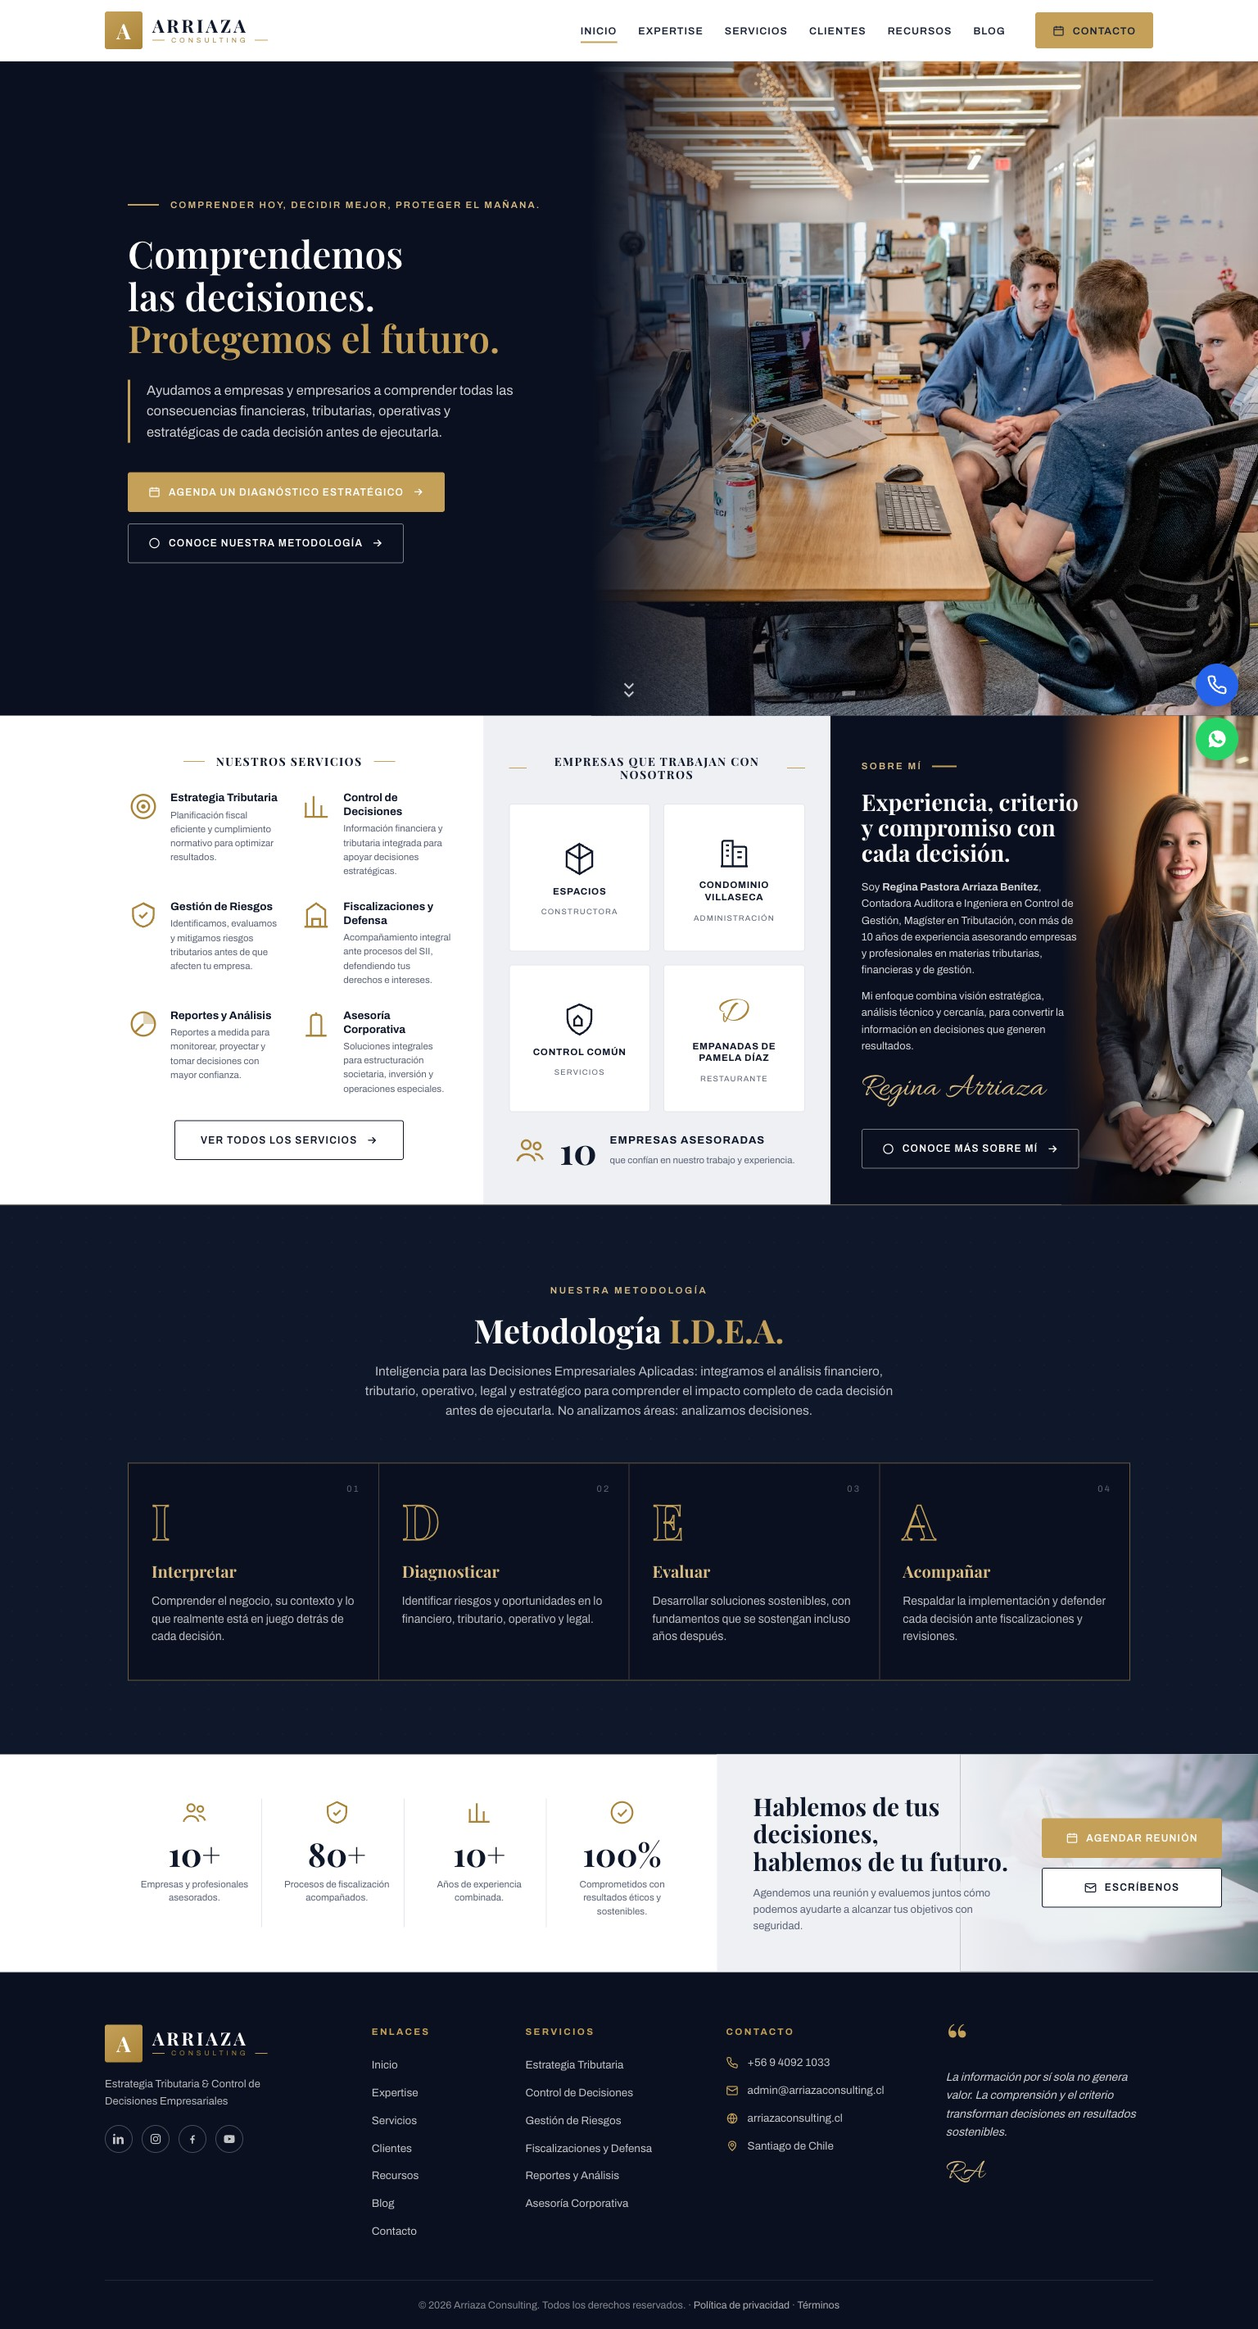
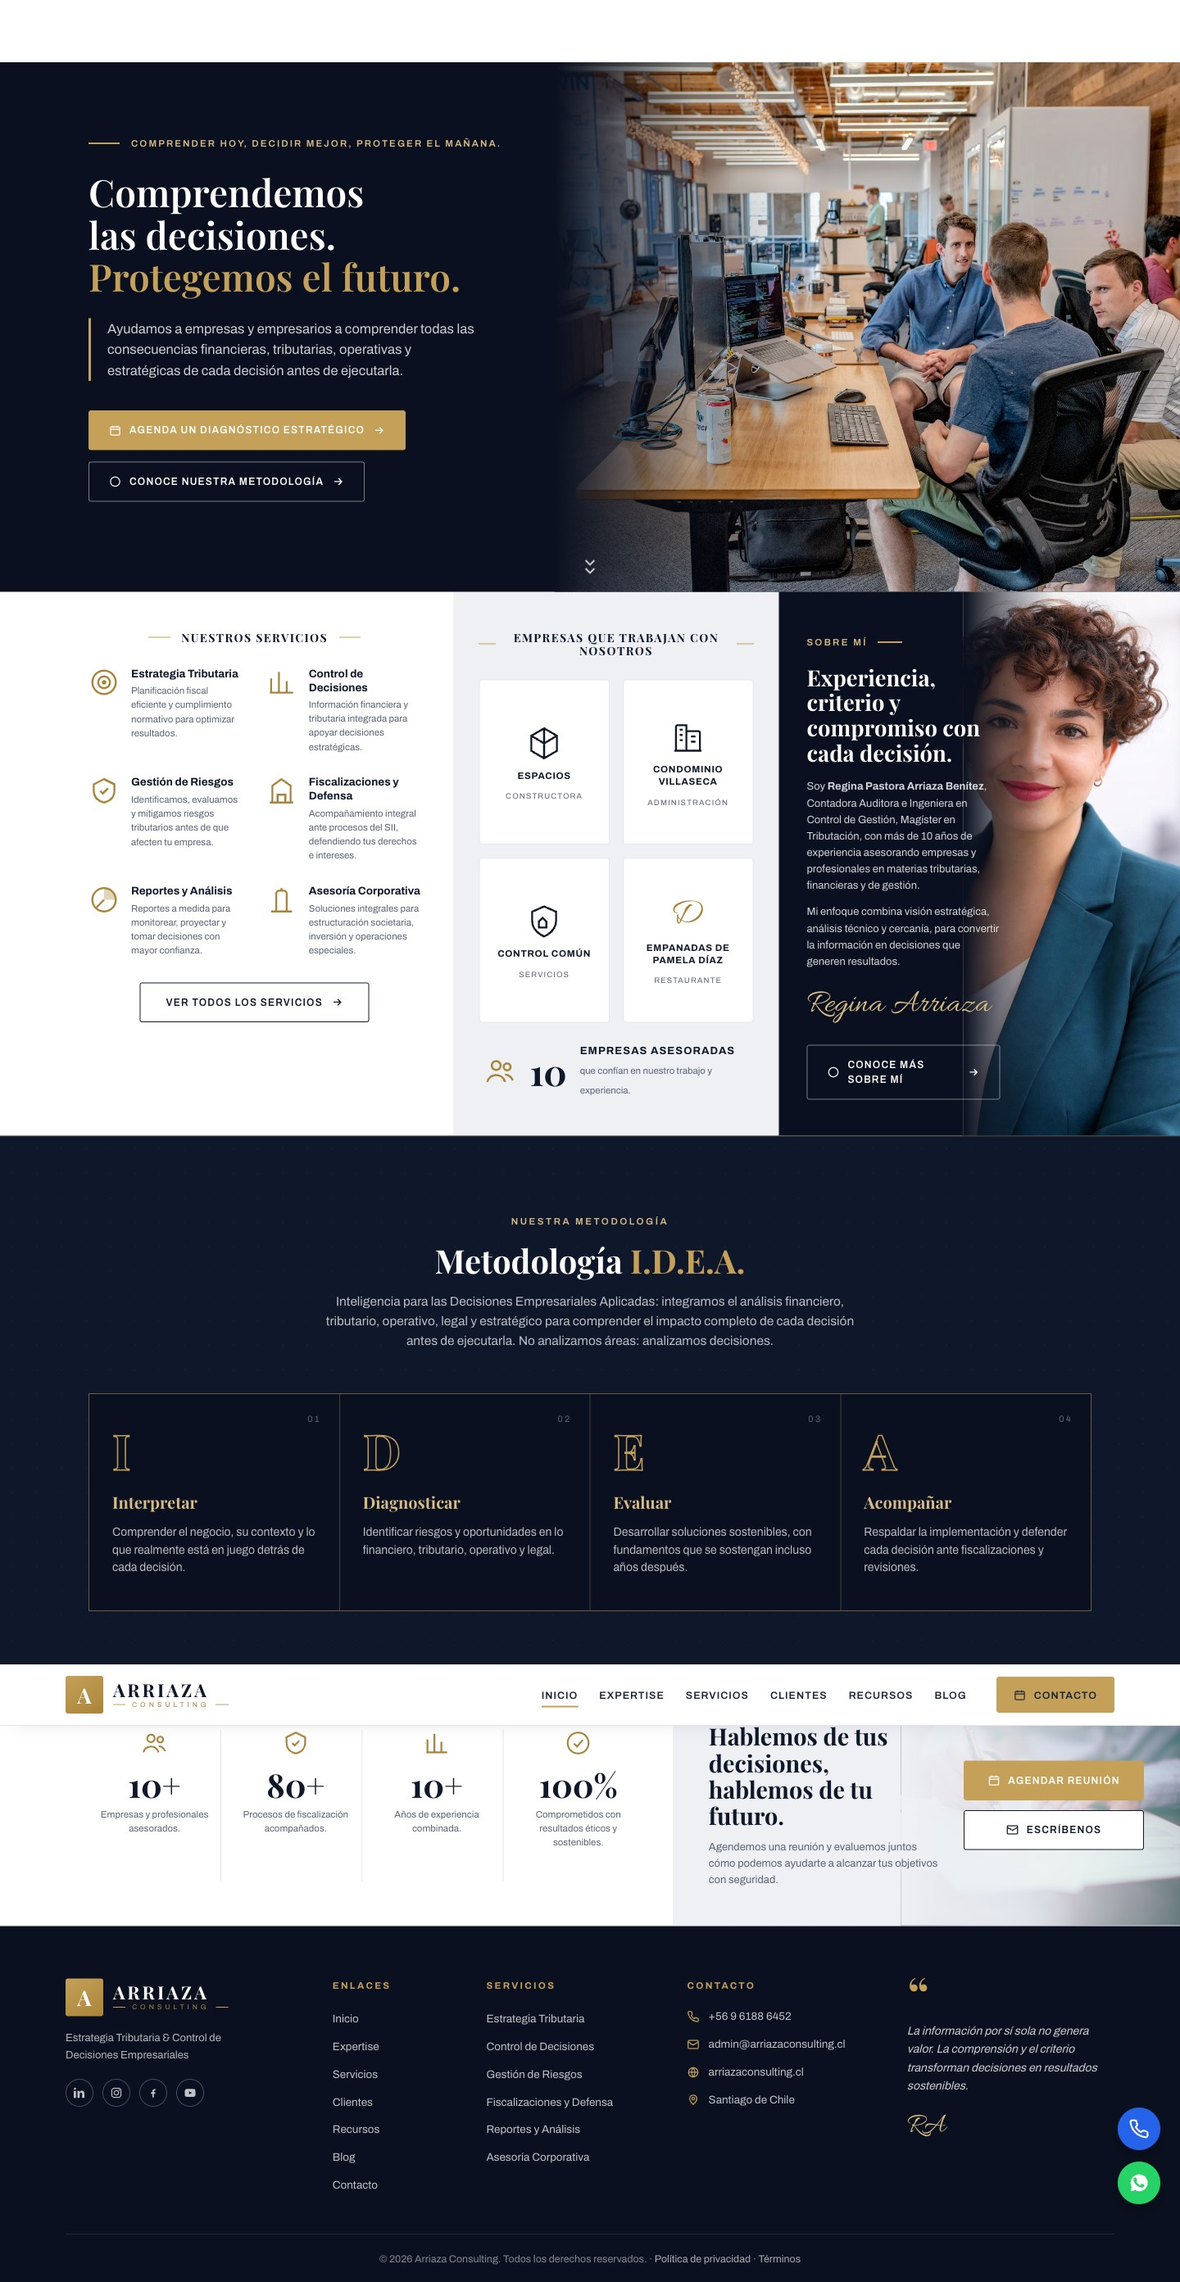
Datos reales de Regina: teléfono +56 9 6188 6452 en todo el sitio y su foto oficial en Sobre mí

diff --git a/index.html b/index.html
@@ -211,7 +211,7 @@
 
         /* — Sobre mí — */
         .t-about { background: var(--navy-950); color: #fff; position: relative; overflow: hidden; display: flex; }
-        .t-about .about-text { position: relative; z-index: 2; padding: 48px 20px 44px 38px; width: 62%; }
+        .t-about .about-text { position: relative; z-index: 2; padding: 48px 14px 44px 34px; width: 58%; }
         .about-label {
             font-size: 11.5px; font-weight: 600; letter-spacing: .2em; text-transform: uppercase;
             color: var(--gold-soft); display: inline-flex; align-items: center; gap: 12px;
@@ -220,11 +220,11 @@
         .t-about h2 { font-size: clamp(22px, 1.9vw, 28px); color: #fff; margin: 16px 0 16px; }
         .t-about p { font-size: 13px; color: rgba(255, 255, 255, .82); margin-bottom: 12px; }
         .t-about .signature { font-family: 'Allura', cursive; font-size: 40px; color: var(--gold-soft); margin: 10px 0 18px; }
-        .t-about .photo { position: absolute; right: 0; top: 0; bottom: 0; width: 46%; }
-        .t-about .photo img { width: 100%; height: 100%; object-fit: cover; object-position: center top; }
+        .t-about .photo { position: absolute; right: 0; top: 0; bottom: 0; width: 54%; }
+        .t-about .photo img { width: 100%; height: 100%; object-fit: cover; object-position: 62% 18%; }
         .t-about .photo::before {
             content: ""; position: absolute; inset: 0; z-index: 1;
-            background: linear-gradient(90deg, var(--navy-950) 0%, rgba(10, 16, 31, .35) 30%, transparent 60%);
+            background: linear-gradient(90deg, var(--navy-950) 0%, rgba(10, 16, 31, .55) 16%, transparent 42%);
         }
 
         /* ============ Metodología I.D.E.A. ============ */
@@ -383,7 +383,7 @@
                     ejecutarla.</p>
                 <div class="hero-actions reveal reveal-d3">
                     <a class="btn btn-gold"
-                        href="https://wa.me/56940921033?text=Hola,%20quisiera%20agendar%20un%20diagn%C3%B3stico%20estrat%C3%A9gico%20para%20mi%20empresa.">
+                        href="https://wa.me/56961886452?text=Hola,%20quisiera%20agendar%20un%20diagn%C3%B3stico%20estrat%C3%A9gico%20para%20mi%20empresa.">
                         <svg viewBox="0 0 24 24" fill="none" stroke="currentColor" stroke-width="2"><rect x="3" y="5" width="18" height="16" rx="2"/><path d="M8 3v4M16 3v4M3 10h18"/></svg>
                         Agenda un diagnóstico estratégico
                         <svg viewBox="0 0 24 24" fill="none" stroke="currentColor" stroke-width="2"><path d="M5 12h14M13 6l6 6-6 6"/></svg>
@@ -492,9 +492,8 @@
                 </a>
             </div>
             <div class="photo">
-                <!-- FOTO PROVISORIA (Unsplash) — reemplazar por la foto real de Regina -->
-                <img src="https://images.unsplash.com/photo-1573496359142-b8d87734a5a2?auto=format&fit=crop&w=800&q=80"
-                    alt="Regina Pastora Arriaza Benítez, fundadora de Arriaza Consulting" width="480" height="640">
+                <img src="img/regina-arriaza.jpg"
+                    alt="Regina Pastora Arriaza Benítez, fundadora de Arriaza Consulting" width="853" height="1280">
             </div>
         </section>
     </div>
@@ -576,7 +575,7 @@
                     </div>
                     <div class="actions reveal reveal-d1">
                         <a class="btn btn-gold"
-                            href="https://wa.me/56940921033?text=Hola,%20quisiera%20agendar%20una%20reuni%C3%B3n%20con%20Arriaza%20Consulting.">
+                            href="https://wa.me/56961886452?text=Hola,%20quisiera%20agendar%20una%20reuni%C3%B3n%20con%20Arriaza%20Consulting.">
                             <svg viewBox="0 0 24 24" fill="none" stroke="currentColor" stroke-width="2"><rect x="3" y="5" width="18" height="16" rx="2"/><path d="M8 3v4M16 3v4M3 10h18"/></svg>
                             Agendar reunión</a>
                         <a class="btn btn-ghost-dark" href="mailto:admin@arriazaconsulting.cl">
@@ -634,7 +633,7 @@
                 <h4>Contacto</h4>
                 <ul class="foot-contact" style="display:grid;gap:13px;">
                     <li><svg viewBox="0 0 24 24" fill="none" stroke="currentColor" stroke-width="2"><path d="M22 16.9v3a2 2 0 01-2.2 2A19.8 19.8 0 012 4.2 2 2 0 014 2h3.1a2 2 0 012 1.7c.13.96.36 1.9.7 2.8a2 2 0 01-.45 2.1L8.1 9.9a16 16 0 006 6l1.3-1.25a2 2 0 012.1-.45c.9.34 1.84.57 2.8.7a2 2 0 011.7 2z"/></svg>
-                        <a href="tel:+56940921033">+56 9 4092 1033</a></li>
+                        <a href="tel:+56961886452">+56 9 6188 6452</a></li>
                     <li><svg viewBox="0 0 24 24" fill="none" stroke="currentColor" stroke-width="2"><rect x="2" y="4" width="20" height="16" rx="2"/><path d="M2 7l10 6L22 7"/></svg>
                         <a href="mailto:admin@arriazaconsulting.cl">admin@arriazaconsulting.cl</a></li>
                     <li><svg viewBox="0 0 24 24" fill="none" stroke="currentColor" stroke-width="2"><circle cx="12" cy="12" r="9"/><path d="M3 12h18M12 3a14 14 0 010 18M12 3a14 14 0 000 18"/></svg>
@@ -658,10 +657,10 @@
 
     <!-- ============ Flotantes ============ -->
     <div class="floaters">
-        <a class="f-phone" href="tel:+56940921033" aria-label="Llamar">
+        <a class="f-phone" href="tel:+56961886452" aria-label="Llamar">
             <svg viewBox="0 0 24 24" fill="none" stroke="currentColor" stroke-width="2"><path d="M22 16.9v3a2 2 0 01-2.2 2A19.8 19.8 0 012 4.2 2 2 0 014 2h3.1a2 2 0 012 1.7c.13.96.36 1.9.7 2.8a2 2 0 01-.45 2.1L8.1 9.9a16 16 0 006 6l1.3-1.25a2 2 0 012.1-.45c.9.34 1.84.57 2.8.7a2 2 0 011.7 2z"/></svg>
         </a>
-        <a class="f-wsp" href="https://wa.me/56940921033?text=Hola,%20necesito%20asesor%C3%ADa%20para%20mi%20empresa." aria-label="WhatsApp">
+        <a class="f-wsp" href="https://wa.me/56961886452?text=Hola,%20necesito%20asesor%C3%ADa%20para%20mi%20empresa." aria-label="WhatsApp">
             <svg viewBox="0 0 24 24" fill="currentColor"><path d="M12.04 2a9.9 9.9 0 00-8.5 15L2 22l5.15-1.5A9.94 9.94 0 1012.04 2zm5.8 14.1c-.24.68-1.4 1.3-1.94 1.35-.5.05-1.13.24-3.8-.8-3.2-1.26-5.24-4.53-5.4-4.74-.16-.21-1.3-1.73-1.3-3.3 0-1.57.83-2.34 1.12-2.66.3-.32.64-.4.85-.4h.61c.2 0 .46-.07.72.55.27.64.9 2.2.98 2.36.08.16.13.35.03.56-.1.21-.16.34-.32.53-.16.19-.34.42-.48.56-.16.16-.33.34-.14.66.19.32.83 1.37 1.78 2.22 1.22 1.09 2.25 1.43 2.57 1.59.32.16.5.13.69-.08.19-.21.79-.92 1-1.24.21-.32.42-.26.7-.16.29.11 1.85.87 2.17 1.03.32.16.53.24.61.37.08.14.08.78-.16 1.44z"/></svg>
         </a>
     </div>

diff --git a/blog/regimen-pro-pyme-transparente-vs-general.html b/blog/regimen-pro-pyme-transparente-vs-general.html
@@ -59,13 +59,13 @@
                 <a href="/" class="hover:text-navy transition">Inicio</a>
                 <a href="/blog" class="hover:text-navy transition">Blog</a>
                 <a href="/agencia-digital" class="hover:text-navy transition">Agencia Digital</a>
-                <a href="https://wa.me/56940921033" target="_blank" rel="noopener" class="bg-navy border border-navy text-white px-6 py-2.5 rounded-sm hover:bg-transparent hover:text-navy transition-all">Contacto</a>
+                <a href="https://wa.me/56961886452" target="_blank" rel="noopener" class="bg-navy border border-navy text-white px-6 py-2.5 rounded-sm hover:bg-transparent hover:text-navy transition-all">Contacto</a>
             </div>
         </div>
     </nav>
     <div class="float-contact">
-        <a href="tel:940921033" class="btn-float bg-blue-600" title="Llamar"><i class="fas fa-phone"></i></a>
-        <a href="https://wa.me/56940921033?text=Hola%2C%20quisiera%20agendar%20una%20reuni%C3%B3n%20de%20diagn%C3%B3stico%20tributario" target="_blank" class="btn-float bg-green-500" title="WhatsApp"><i class="fab fa-whatsapp"></i></a>
+        <a href="tel:961886452" class="btn-float bg-blue-600" title="Llamar"><i class="fas fa-phone"></i></a>
+        <a href="https://wa.me/56961886452?text=Hola%2C%20quisiera%20agendar%20una%20reuni%C3%B3n%20de%20diagn%C3%B3stico%20tributario" target="_blank" class="btn-float bg-green-500" title="WhatsApp"><i class="fab fa-whatsapp"></i></a>
     </div>
 
 <header class="bg-navy text-white py-20 px-6">
@@ -93,7 +93,7 @@
             <span class="gold-accent text-[10px] font-bold tracking-[0.4em] uppercase">Diagnóstico</span>
             <h3 class="text-2xl font-serif mt-3 text-white">¿Tu PYME está en el régimen correcto?</h3>
             <p class="text-slate-300 mt-3 mb-6">Hacemos diagnóstico de régimen y simulación de cambio. Sin compromiso, te enviamos las cifras antes de cualquier movimiento.</p>
-            <a href="https://wa.me/56940921033?text=Hola%20Arriaza%2C%20le%C3%AD%20su%20art%C3%ADculo%20y%20quiero%20agendar%20diagn%C3%B3stico" target="_blank" rel="noopener" class="inline-block bg-gold text-white px-8 py-4 font-bold text-sm tracking-wider uppercase hover:bg-yellow-600 transition">Agendar Reunión <i class="fas fa-arrow-right ml-2"></i></a>
+            <a href="https://wa.me/56961886452?text=Hola%20Arriaza%2C%20le%C3%AD%20su%20art%C3%ADculo%20y%20quiero%20agendar%20diagn%C3%B3stico" target="_blank" rel="noopener" class="inline-block bg-gold text-white px-8 py-4 font-bold text-sm tracking-wider uppercase hover:bg-yellow-600 transition">Agendar Reunión <i class="fas fa-arrow-right ml-2"></i></a>
         </div>
     </div>
 

diff --git a/blog/errores-tributarios-pymes-restauranteras.html b/blog/errores-tributarios-pymes-restauranteras.html
@@ -59,13 +59,13 @@
                 <a href="/" class="hover:text-navy transition">Inicio</a>
                 <a href="/blog" class="hover:text-navy transition">Blog</a>
                 <a href="/agencia-digital" class="hover:text-navy transition">Agencia Digital</a>
-                <a href="https://wa.me/56940921033" target="_blank" rel="noopener" class="bg-navy border border-navy text-white px-6 py-2.5 rounded-sm hover:bg-transparent hover:text-navy transition-all">Contacto</a>
+                <a href="https://wa.me/56961886452" target="_blank" rel="noopener" class="bg-navy border border-navy text-white px-6 py-2.5 rounded-sm hover:bg-transparent hover:text-navy transition-all">Contacto</a>
             </div>
         </div>
     </nav>
     <div class="float-contact">
-        <a href="tel:940921033" class="btn-float bg-blue-600" title="Llamar"><i class="fas fa-phone"></i></a>
-        <a href="https://wa.me/56940921033?text=Hola%2C%20quisiera%20agendar%20una%20reuni%C3%B3n%20de%20diagn%C3%B3stico%20tributario" target="_blank" class="btn-float bg-green-500" title="WhatsApp"><i class="fab fa-whatsapp"></i></a>
+        <a href="tel:961886452" class="btn-float bg-blue-600" title="Llamar"><i class="fas fa-phone"></i></a>
+        <a href="https://wa.me/56961886452?text=Hola%2C%20quisiera%20agendar%20una%20reuni%C3%B3n%20de%20diagn%C3%B3stico%20tributario" target="_blank" class="btn-float bg-green-500" title="WhatsApp"><i class="fab fa-whatsapp"></i></a>
     </div>
 
 <header class="bg-navy text-white py-20 px-6">
@@ -93,7 +93,7 @@
             <span class="gold-accent text-[10px] font-bold tracking-[0.4em] uppercase">Diagnóstico</span>
             <h3 class="text-2xl font-serif mt-3 text-white">¿Tu restaurante necesita diagnóstico tributario?</h3>
             <p class="text-slate-300 mt-3 mb-6">Revisamos los últimos 24 meses, identificamos riesgos y te proponemos plan de remediación. Sin compromiso.</p>
-            <a href="https://wa.me/56940921033?text=Hola%20Arriaza%2C%20le%C3%AD%20su%20art%C3%ADculo%20y%20quiero%20agendar%20diagn%C3%B3stico" target="_blank" rel="noopener" class="inline-block bg-gold text-white px-8 py-4 font-bold text-sm tracking-wider uppercase hover:bg-yellow-600 transition">Agendar Reunión <i class="fas fa-arrow-right ml-2"></i></a>
+            <a href="https://wa.me/56961886452?text=Hola%20Arriaza%2C%20le%C3%AD%20su%20art%C3%ADculo%20y%20quiero%20agendar%20diagn%C3%B3stico" target="_blank" rel="noopener" class="inline-block bg-gold text-white px-8 py-4 font-bold text-sm tracking-wider uppercase hover:bg-yellow-600 transition">Agendar Reunión <i class="fas fa-arrow-right ml-2"></i></a>
         </div>
     </div>
 

diff --git a/blog/tributacion-cabanas-turisticas-airbnb.html b/blog/tributacion-cabanas-turisticas-airbnb.html
@@ -59,13 +59,13 @@
                 <a href="/" class="hover:text-navy transition">Inicio</a>
                 <a href="/blog" class="hover:text-navy transition">Blog</a>
                 <a href="/agencia-digital" class="hover:text-navy transition">Agencia Digital</a>
-                <a href="https://wa.me/56940921033" target="_blank" rel="noopener" class="bg-navy border border-navy text-white px-6 py-2.5 rounded-sm hover:bg-transparent hover:text-navy transition-all">Contacto</a>
+                <a href="https://wa.me/56961886452" target="_blank" rel="noopener" class="bg-navy border border-navy text-white px-6 py-2.5 rounded-sm hover:bg-transparent hover:text-navy transition-all">Contacto</a>
             </div>
         </div>
     </nav>
     <div class="float-contact">
-        <a href="tel:940921033" class="btn-float bg-blue-600" title="Llamar"><i class="fas fa-phone"></i></a>
-        <a href="https://wa.me/56940921033?text=Hola%2C%20quisiera%20agendar%20una%20reuni%C3%B3n%20de%20diagn%C3%B3stico%20tributario" target="_blank" class="btn-float bg-green-500" title="WhatsApp"><i class="fab fa-whatsapp"></i></a>
+        <a href="tel:961886452" class="btn-float bg-blue-600" title="Llamar"><i class="fas fa-phone"></i></a>
+        <a href="https://wa.me/56961886452?text=Hola%2C%20quisiera%20agendar%20una%20reuni%C3%B3n%20de%20diagn%C3%B3stico%20tributario" target="_blank" class="btn-float bg-green-500" title="WhatsApp"><i class="fab fa-whatsapp"></i></a>
     </div>
 
 <header class="bg-navy text-white py-20 px-6">
@@ -93,7 +93,7 @@
             <span class="gold-accent text-[10px] font-bold tracking-[0.4em] uppercase">Diagnóstico</span>
             <h3 class="text-2xl font-serif mt-3 text-white">¿Tienes cabañas y necesitas formalizarte?</h3>
             <p class="text-slate-300 mt-3 mb-6">Diagnóstico de tu situación, plan de formalización y simulación de impacto en carga tributaria. Sin compromiso.</p>
-            <a href="https://wa.me/56940921033?text=Hola%20Arriaza%2C%20le%C3%AD%20su%20art%C3%ADculo%20y%20quiero%20agendar%20diagn%C3%B3stico" target="_blank" rel="noopener" class="inline-block bg-gold text-white px-8 py-4 font-bold text-sm tracking-wider uppercase hover:bg-yellow-600 transition">Agendar Reunión <i class="fas fa-arrow-right ml-2"></i></a>
+            <a href="https://wa.me/56961886452?text=Hola%20Arriaza%2C%20le%C3%AD%20su%20art%C3%ADculo%20y%20quiero%20agendar%20diagn%C3%B3stico" target="_blank" rel="noopener" class="inline-block bg-gold text-white px-8 py-4 font-bold text-sm tracking-wider uppercase hover:bg-yellow-600 transition">Agendar Reunión <i class="fas fa-arrow-right ml-2"></i></a>
         </div>
     </div>
 

diff --git a/blog/index.html b/blog/index.html
@@ -54,13 +54,13 @@
                 <a href="/" class="hover:text-navy transition">Inicio</a>
                 <a href="/blog" class="hover:text-navy transition">Blog</a>
                 <a href="/agencia-digital" class="hover:text-navy transition">Agencia Digital</a>
-                <a href="https://wa.me/56940921033" target="_blank" rel="noopener" class="bg-navy border border-navy text-white px-6 py-2.5 rounded-sm hover:bg-transparent hover:text-navy transition-all">Contacto</a>
+                <a href="https://wa.me/56961886452" target="_blank" rel="noopener" class="bg-navy border border-navy text-white px-6 py-2.5 rounded-sm hover:bg-transparent hover:text-navy transition-all">Contacto</a>
             </div>
         </div>
     </nav>
     <div class="float-contact">
-        <a href="tel:940921033" class="btn-float bg-blue-600" title="Llamar"><i class="fas fa-phone"></i></a>
-        <a href="https://wa.me/56940921033?text=Hola%2C%20quisiera%20agendar%20una%20reuni%C3%B3n%20de%20diagn%C3%B3stico%20tributario" target="_blank" class="btn-float bg-green-500" title="WhatsApp"><i class="fab fa-whatsapp"></i></a>
+        <a href="tel:961886452" class="btn-float bg-blue-600" title="Llamar"><i class="fas fa-phone"></i></a>
+        <a href="https://wa.me/56961886452?text=Hola%2C%20quisiera%20agendar%20una%20reuni%C3%B3n%20de%20diagn%C3%B3stico%20tributario" target="_blank" class="btn-float bg-green-500" title="WhatsApp"><i class="fab fa-whatsapp"></i></a>
     </div>
 
 <header class="bg-navy text-white py-24 px-6">

diff --git a/CLAUDE.md b/CLAUDE.md
@@ -34,7 +34,10 @@ sin correo-worker.
 ## Estado del rediseño (2026-08-04)
 
 `index.html` reescrito según el mockup del cliente (navy #0F172A + dorado #C5A059,
-Playfair Display). **NO publicado aún** — pendientes antes del push:
+Playfair Display). **PUBLICADO 2026-08-04** (push con OK de Alejandro). El dominio ya
+está agregado al proyecto Vercel (`arriazaconsulting.cl` + `www`); solo falta que el
+cliente cree el registro `A @ 76.76.21.21` (+ `CNAME www cname.vercel-dns.com`) en su
+Cloudflare. Pendientes de contenido (respuestas del cliente):
 
 1. Confirmar teléfono/correo: sitio viejo usa +56 9 4092 1033 / admin@; el mockup dice
    +56 9 6188 6452 / gerencia@. Hoy la página usa los VIEJOS (verificados).
